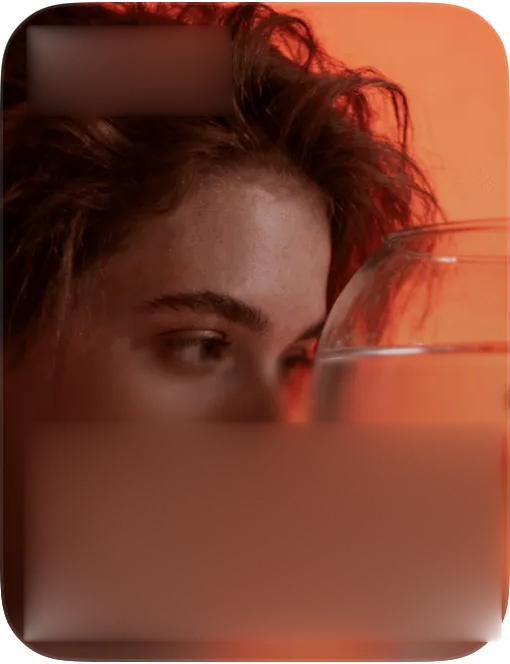
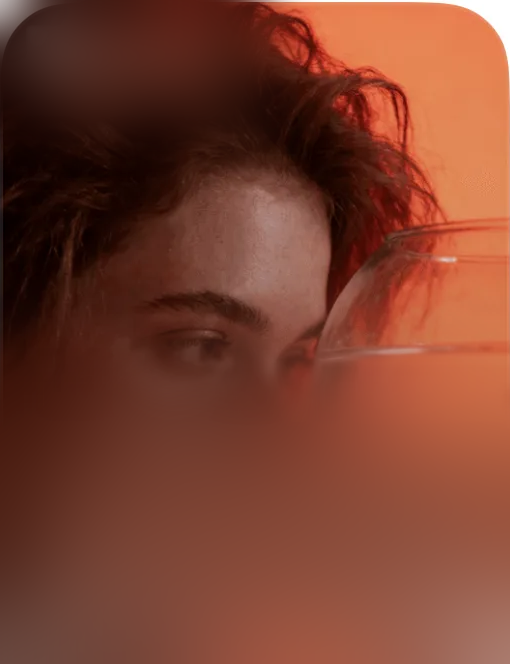
Мягкий блюр под текстом на карточках, иконка часов по центру тега
Впечённые прямоугольники блюра в article-*.png и template-deep-work.png заменены
плавным прогрессивным размытием. Иконка clock-fill перерисована: в исходнике
глиф был смещён внутри viewBox и обрезан.

Claude-Session: https://claude.ai/code/session_01HfiA4cfuUaicR8uUzGtXwd

diff --git a/src/icons/data.ts b/src/icons/data.ts
@@ -12,7 +12,8 @@ export const icons = {
   "chevron-down": "<svg xmlns=\"http://www.w3.org/2000/svg\" viewBox=\"0 0 13 8\"><path fill=\"currentColor\" d=\"M6.378 7.13Q6.772 7.124 7.076 6.812L10.758 3.074Q10.999 2.833 10.999 2.483Q10.999 2.128 10.752 1.874Q10.504 1.62 10.149 1.62Q9.793 1.62 9.52 1.899L6.175 5.327H6.594L3.236 1.899Q2.963 1.62 2.608 1.62Q2.252 1.62 2.001 1.874Q1.751 2.128 1.751 2.483Q1.751 2.826 1.992 3.074L5.68 6.812Q5.997 7.13 6.378 7.13Z\"/></svg>",
   "chevron-down-section": "<svg xmlns=\"http://www.w3.org/2000/svg\" viewBox=\"0 0 11 8\"><path fill=\"currentColor\" d=\"M5.315 6.738Q5.524 6.738 5.7 6.658Q5.876 6.578 6.05 6.404L9.258 3.12Q9.507 2.875 9.507 2.519Q9.507 2.278 9.389 2.076Q9.271 1.873 9.073 1.755Q8.875 1.637 8.634 1.637Q8.269 1.637 7.993 1.926L5.168 4.858H5.471L2.637 1.926Q2.352 1.637 1.986 1.637Q1.75 1.637 1.552 1.755Q1.354 1.873 1.236 2.076Q1.118 2.278 1.118 2.519Q1.118 2.697 1.178 2.844Q1.238 2.991 1.363 3.12L4.575 6.404Q4.914 6.738 5.315 6.738Z\"/></svg>",
   "chevron-right": "<svg xmlns=\"http://www.w3.org/2000/svg\" viewBox=\"0 0 8 11\"><path fill=\"currentColor\" d=\"M6.898 5.498Q6.894 5.285 6.812 5.107Q6.731 4.929 6.555 4.753L3.231 1.496Q2.982 1.248 2.617 1.248Q2.377 1.248 2.174 1.367Q1.971 1.487 1.849 1.688Q1.727 1.889 1.727 2.128Q1.727 2.503 2.02 2.783L4.83 5.493L2.02 8.212Q1.727 8.501 1.727 8.867Q1.727 9.111 1.849 9.31Q1.971 9.508 2.174 9.63Q2.377 9.752 2.617 9.752Q2.982 9.752 3.231 9.499L6.555 6.243Q6.736 6.067 6.817 5.888Q6.898 5.71 6.898 5.498Z\"/></svg>",
-  "clock-fill": "<svg xmlns=\"http://www.w3.org/2000/svg\" viewBox=\"0 0 12 12\"><path fill=\"currentColor\" fill-rule=\"evenodd\" d=\"M4.025 11.727 C3.757 11.336 3.333 10.522 3.333 10.398 C3.333 10.340 3.270 10.179 3.194 10.042 C3.088 9.850 3.054 9.557 3.049 8.792 C3.043 7.947 3.073 7.694 3.244 7.167 C3.488 6.414 3.845 5.827 4.453 5.181 C4.765 4.849 5.439 4.333 5.560 4.333 C5.589 4.333 5.671 4.283 5.743 4.222 C6.016 3.992 7.040 3.725 7.792 3.689 C8.513 3.654 8.683 3.678 9.641 3.949 C10.161 4.096 11.060 4.672 11.605 5.207 L12.002 5.596 L11.980 8.777 L11.958 11.958 L8.083 11.977 L4.208 11.995 L4.025 11.727 Z M9.654 10.188 C9.773 9.959 9.645 9.755 8.968 9.092 L8.338 8.477 L8.315 7.384 L8.292 6.292 L8.000 6.292 L7.708 6.292 L7.685 7.579 L7.662 8.867 L8.392 9.600 C8.955 10.166 9.174 10.333 9.349 10.333 C9.482 10.333 9.609 10.272 9.654 10.188 Z\"/></svg>",
+  // Перерисована: глиф в исходнике смещён внутри viewBox и обрезан справа.
+  "clock-fill": "<svg xmlns=\"http://www.w3.org/2000/svg\" viewBox=\"0 0 12 12\"><path fill=\"currentColor\" fill-rule=\"evenodd\" d=\"M6 0a6 6 0 1 1 0 12A6 6 0 0 1 6 0Zm.6 2.7a.6.6 0 0 0-1.2 0V6c0 .2.1.4.28.5l2.1 1.35a.6.6 0 1 0 .65-1L6.6 5.67V2.7Z\"/></svg>",
   "drop": "<svg xmlns=\"http://www.w3.org/2000/svg\" viewBox=\"0 0 12.5 14.5\"><path fill=\"currentColor\" fill-rule=\"evenodd\" d=\"M5.167 13.252 C4.767 13.155 4.293 12.972 4.156 12.862 C4.093 12.811 3.892 12.693 3.708 12.600 C3.248 12.365 2.581 11.703 2.304 11.207 C1.436 9.654 1.300 8.188 1.894 6.792 C2.285 5.873 2.614 5.433 4.077 3.867 C4.801 3.093 5.222 2.455 5.332 1.965 C5.417 1.587 5.669 1.333 5.960 1.333 C6.152 1.333 6.757 1.868 7.319 2.536 C7.787 3.090 8.233 3.994 8.326 4.574 C8.373 4.866 8.428 5.122 8.448 5.143 C8.500 5.195 8.917 4.913 8.917 4.826 C8.917 4.787 9.021 4.701 9.147 4.635 C9.574 4.414 10.058 4.783 10.444 5.625 C11.182 7.231 11.163 9.102 10.393 10.651 C9.903 11.634 8.680 12.690 7.571 13.087 C6.994 13.294 5.702 13.382 5.167 13.252 Z\"/></svg>",
   "ellipsis": "<svg xmlns=\"http://www.w3.org/2000/svg\" viewBox=\"0 0 20 7\"><path fill=\"currentColor\" d=\"M3.419 5.536Q3.966 5.536 4.415 5.263Q4.863 4.99 5.137 4.541Q5.41 4.092 5.41 3.562Q5.41 2.725 4.842 2.157Q4.274 1.589 3.419 1.589Q2.881 1.589 2.432 1.854Q1.984 2.118 1.715 2.567Q1.445 3.016 1.445 3.562Q1.445 4.092 1.715 4.541Q1.984 4.99 2.432 5.263Q2.881 5.536 3.419 5.536ZM9.879 5.536Q10.409 5.536 10.858 5.263Q11.306 4.99 11.58 4.541Q11.853 4.092 11.853 3.562Q11.853 2.725 11.285 2.157Q10.717 1.589 9.879 1.589Q9.332 1.589 8.884 1.854Q8.435 2.118 8.17 2.567Q7.905 3.016 7.905 3.562Q7.905 4.092 8.17 4.541Q8.435 4.99 8.884 5.263Q9.332 5.536 9.879 5.536ZM16.331 5.536Q16.86 5.536 17.309 5.263Q17.758 4.99 18.031 4.541Q18.305 4.092 18.305 3.562Q18.305 2.725 17.736 2.157Q17.168 1.589 16.331 1.589Q15.784 1.589 15.331 1.854Q14.878 2.118 14.609 2.567Q14.34 3.016 14.34 3.562Q14.34 4.092 14.609 4.541Q14.878 4.99 15.331 5.263Q15.784 5.536 16.331 5.536Z\"/></svg>",
   "flame": "<svg xmlns=\"http://www.w3.org/2000/svg\" viewBox=\"0 0 13 14.5\"><path fill=\"currentColor\" fill-rule=\"evenodd\" d=\"M5.750 12.750 C5.635 12.713 5.436 12.680 5.307 12.675 C4.993 12.664 4.221 12.293 3.705 11.905 C3.140 11.481 2.661 10.875 2.278 10.100 L1.960 9.458 L1.964 8.333 C1.968 7.333 1.991 7.158 2.169 6.750 C2.537 5.910 3.063 5.257 4.450 3.917 C4.985 3.400 5.249 3.071 5.425 2.700 C5.558 2.421 5.667 2.152 5.667 2.104 C5.667 1.963 6.162 1.583 6.345 1.583 C6.690 1.583 7.354 2.103 7.905 2.803 C8.295 3.300 8.470 3.634 8.704 4.327 C8.933 5.006 9.083 5.115 9.366 4.809 C9.699 4.450 9.999 4.475 10.438 4.899 C11.624 6.044 11.812 8.963 10.797 10.459 C10.009 11.620 8.692 12.500 7.381 12.742 C6.820 12.845 6.060 12.849 5.750 12.750 Z M8.000 11.390 C8.941 10.920 9.196 10.721 9.693 10.069 C10.031 9.626 10.333 8.581 10.333 7.856 C10.333 7.210 10.167 6.475 9.959 6.201 C9.845 6.050 9.804 6.076 9.200 6.688 C8.667 7.226 8.516 7.333 8.293 7.333 C7.828 7.333 7.769 7.179 7.734 5.875 C7.707 4.813 7.684 4.667 7.480 4.250 C7.268 3.815 6.728 3.167 6.578 3.167 C6.540 3.167 6.377 3.365 6.216 3.608 C6.055 3.851 5.481 4.485 4.941 5.018 C3.827 6.116 3.519 6.512 3.214 7.236 C2.562 8.785 3.510 10.787 5.234 11.502 C5.559 11.637 5.788 11.661 6.583 11.642 C7.436 11.622 7.592 11.594 8.000 11.390 Z\"/></svg>",

diff --git a/src/screens/profile/ProfileScreen.tsx b/src/screens/profile/ProfileScreen.tsx
@@ -152,7 +152,7 @@ function Article({ image, title }: { image: ImageSource; title: string }) {
     <Pressable style={styles.article}>
       <Image source={image} style={StyleSheet.absoluteFill} contentFit="cover" />
       <View style={styles.artPill}>
-        <Icon name="clock-fill" width={12} color={colors.white} style={{ position: 'absolute', left: 6, top: 5.25 }} />
+        <Icon name="clock-fill" width={11.5} color={colors.white} style={{ position: 'absolute', left: 6.5, top: 5.5 }} />
         <T size={12.5} weight={600} color={colors.white}>
           5 мин
         </T>
